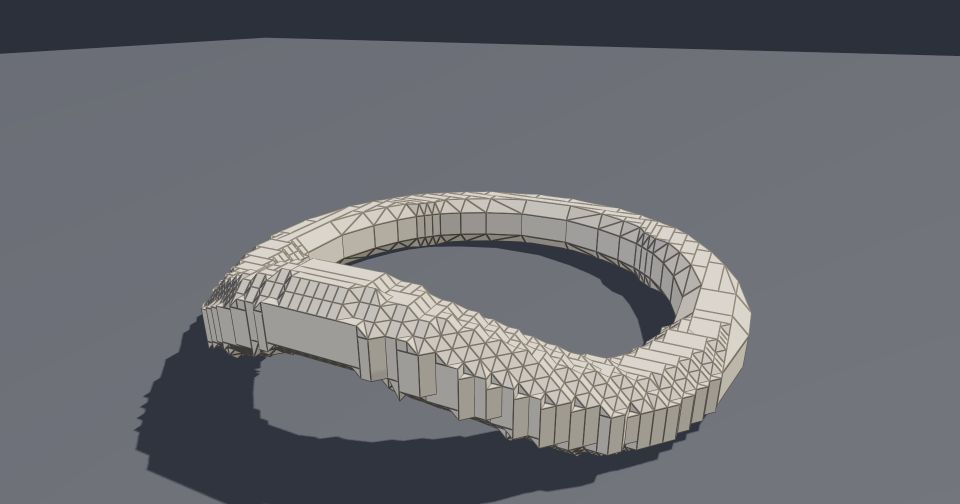
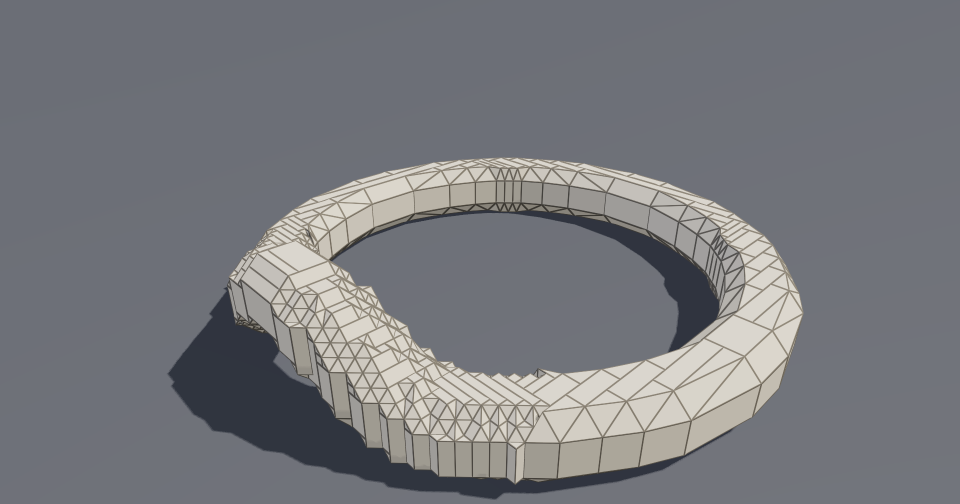
Claude moves one dot at a time; a Go to folder button; pictures retaken
Four more MCP tools: move_point, add_pull_point, move_pull_point and
remove_pull_point. Go to folder shows the saved forms in the system's file
manager. The pictures that showed the size slider and the old lifted tube
are retaken.

diff --git a/editor/src/mcp.rs b/editor/src/mcp.rs
@@ -660,6 +660,8 @@ fn workspace(state: &State) -> Value {
                     "stripe_width": paint.width,
                 },
                 "place": place.map(|u| u as f64 / 2.0),
+                "points": spec.points.iter().map(|p| rounded(*p)).collect::<Vec<_>>(),
+                "added_points": spec.pulls.iter().map(|(at, by)| json!({ "at": rounded(*at), "pulled_by": rounded(*by) })).collect::<Vec<_>>(),
                 "box_in_grid": extents[index].as_ref().map(|e| json!({ "low": rounded(e.low), "high": rounded(e.high), "size": rounded(e.high - e.low) })),
                 "box_in_world": extents[index].as_ref().map(|e| json!({ "low": rounded(e.world_low), "high": rounded(e.world_high), "centre": rounded(e.centre_in_world(spec)) })),
                 "bricks": built.bricks.len(),
@@ -806,6 +808,53 @@ pub fn apply(state: &mut State, name: &str, arguments: &Value, now_ms: impl Fn()
             }
             state.open(forms);
         }
+        // One dot of a form, as the mouse moves one: a point the form is
+        // drawn through, or a point added to pull it out of shape. The
+        // whole list could be sent through `update_form` instead, which
+        // means reading it, changing one entry and writing every entry
+        // back in the text a save keeps them in: arithmetic and copying
+        // that a caller gets wrong, for what is one drag in the editor.
+        "move_point" => {
+            let at = index(&forms)?;
+            let which = arguments.get("point").and_then(Value::as_u64).ok_or("point is the number of one of the form's points, counted from 0")? as usize;
+            let to = three(arguments.get("to"), "to", brickloft_core::spec::MAX_SPAN)?;
+            let spec = &mut forms[at].0;
+            let count = spec.points.len();
+            *spec.points.get_mut(which).ok_or(format!("the form has {count} points, numbered from 0"))? = DVec3::from_array(to);
+            brickloft_core::spec::build(spec)?;
+            state.open(forms);
+        }
+        "add_pull_point" => {
+            let at = index(&forms)?;
+            let hold = three(arguments.get("at"), "at", brickloft_core::spec::MAX_SPAN)?;
+            let by = three(arguments.get("pulled_by"), "pulled_by", brickloft_core::spec::MAX_SPAN)?;
+            let spec = &mut forms[at].0;
+            if spec.pulls.len() >= crate::state::PULLS {
+                return Err(format!("a form takes at most {} added points", crate::state::PULLS));
+            }
+            spec.pulls.push((DVec3::from_array(hold), DVec3::from_array(by)));
+            if let Some(reach) = arguments.get("reach").filter(|r| !r.is_null()) {
+                spec.pull_reach = reach.as_f64().filter(|r| (1.0..=brickloft_core::spec::MAX_SPAN).contains(r)).ok_or("reach is a number of microbricks, 1 or more")?;
+            }
+            brickloft_core::spec::build(spec)?;
+            state.open(forms);
+        }
+        "move_pull_point" | "remove_pull_point" => {
+            let at = index(&forms)?;
+            let which = arguments.get("added_point").and_then(Value::as_u64).ok_or("added_point is the number of one of the form's added points, counted from 0")? as usize;
+            let spec = &mut forms[at].0;
+            let count = spec.pulls.len();
+            if which >= count {
+                return Err(format!("the form has {count} added points, numbered from 0"));
+            }
+            if name == "remove_pull_point" {
+                spec.pulls.remove(which);
+            } else {
+                spec.pulls[which].1 = DVec3::from_array(three(arguments.get("pulled_by"), "pulled_by", brickloft_core::spec::MAX_SPAN)?);
+            }
+            brickloft_core::spec::build(spec)?;
+            state.open(forms);
+        }
         "remove_form" => {
             let at = index(&forms)?;
             if forms.len() == 1 {
@@ -871,7 +920,7 @@ mod tests {
             let said = apply(&mut state, &name, &json!({}), || 0.0);
             assert!(!said.is_err_and(|e| e.starts_with("Unknown tool")), "{name} is listed and not carried out");
         }
-        assert_eq!(tool_names().len(), 10);
+        assert_eq!(tool_names().len(), 14);
     }
 
     #[test]
@@ -1103,6 +1152,39 @@ mod tests {
         assert!(apply(&mut state, "set_view", &json!({ "rulers": true, "floor_below": 900 }), || 0.0).is_err());
         assert!(apply(&mut state, "set_view", &json!({ "rings": "no" }), || 0.0).is_err());
         assert_eq!((state.show_ruler, state.show_rings), (false, true));
+    }
+
+    #[test]
+    fn one_dot_of_a_form_is_moved_added_and_taken_off() {
+        let mut state = State::new(); // an arch: two feet
+        let said = |text: String| serde_json::from_str::<Value>(&text).unwrap();
+        let before = state.spec.points.clone();
+        let moved = said(apply(&mut state, "move_point", &json!({ "index": 0, "point": 1, "to": [12.5, 0.5, 0.5] }), || 0.0).unwrap());
+        assert_eq!(moved["forms"][0]["points"][1], json!([12.5, 0.5, 0.5]));
+        assert_eq!((state.spec.points[0], state.spec.points[1]), (before[0], DVec3::new(12.5, 0.5, 0.5)), "the other foot moved too");
+        // a point added to pull the arch's crown up, moved further, and taken off
+        let pulled = said(apply(&mut state, "add_pull_point", &json!({ "index": 0, "at": [2.5, 0.5, 8.5], "pulled_by": [0, 0, 3], "reach": 6 }), || 0.0).unwrap());
+        assert_eq!(pulled["forms"][0]["added_points"], json!([{ "at": [2.5, 0.5, 8.5], "pulled_by": [0.0, 0.0, 3.0] }]));
+        assert_eq!(state.spec.pull_reach, 6.0);
+        let high = state.built.bricks.iter().map(|b| b.min[2] + b.ext[2]).max().unwrap();
+        apply(&mut state, "move_pull_point", &json!({ "index": 0, "added_point": 0, "pulled_by": [0, 0, 6] }), || 0.0).unwrap();
+        assert!(state.built.bricks.iter().map(|b| b.min[2] + b.ext[2]).max().unwrap() > high, "pulling the point further did not raise the arch");
+        apply(&mut state, "remove_pull_point", &json!({ "index": 0, "added_point": 0 }), || 0.0).unwrap();
+        assert!(state.spec.pulls.is_empty());
+        // each is one step to undo
+        assert!(state.undo() && state.spec.pulls.len() == 1);
+        let now = state.forms();
+        for (tool, bad) in [
+            ("move_point", json!({ "index": 0, "point": 9, "to": [0, 0, 0] })),
+            ("move_point", json!({ "index": 0, "point": 0, "to": [0, 0] })),
+            ("move_point", json!({ "index": 0, "point": 0, "to": [1e9, 0, 0] })),
+            ("move_pull_point", json!({ "index": 0, "added_point": 4, "pulled_by": [0, 0, 1] })),
+            ("remove_pull_point", json!({ "index": 0 })),
+            ("add_pull_point", json!({ "index": 0, "at": [0, 0, 0], "pulled_by": [0, 0, 1], "reach": 0 })),
+        ] {
+            assert!(apply(&mut state, tool, &bad, || 0.0).is_err(), "{tool} took {bad}");
+            assert_eq!(state.forms(), now, "{tool} with {bad} changed the workspace");
+        }
     }
 
     #[test]

diff --git a/editor/src/store.rs b/editor/src/store.rs
@@ -201,6 +201,11 @@ mod files {
             .collect()
     }
 
+    /// Where a folder of saves is on disk.
+    pub fn folder_path(folder: &str) -> Result<PathBuf, String> {
+        Ok(root().join(clean(folder)?))
+    }
+
     pub fn folders() -> Vec<String> {
         sorted_with_starters(names(root(), true))
     }
@@ -317,6 +322,18 @@ mod files {
 }
 
 pub use files::{add_folder, folders, forms};
+
+/// Show `folder` of the saved forms in the system's file manager, making it
+/// first if nothing has been saved there yet. Returns what to tell the player.
+#[cfg(not(target_arch = "wasm32"))]
+pub fn show_folder(folder: &str) -> Result<String, String> {
+    let path = files::folder_path(folder)?;
+    std::fs::create_dir_all(&path).map_err(|e| format!("could not make {}: {e}", path.display()))?;
+    // (the path is handed over as one argument to the system's own opener,
+    // never as text for a shell to read: see the `open` crate)
+    open::that_detached(&path).map_err(|e| format!("could not open {}: {e}", path.display()))?;
+    Ok(format!("Opened {}", path.display()))
+}
 
 /// Delete the save under `name` in `folder`. It cannot be brought back, so
 /// the panel asks first.

diff --git a/editor/src/panel.rs b/editor/src/panel.rs
@@ -60,6 +60,11 @@ fn saved_forms(ui: &mut Ui, state: &mut State) {
         })
             .response
     });
+    // a page keeps its saves in the browser, where there is no folder to show
+    #[cfg(not(target_arch = "wasm32"))]
+    if helped(ui, help("go_to_folder"), |ui| ui.button("Go to folder")).clicked() {
+        state.store_note = crate::store::show_folder(&state.folder).unwrap_or_else(|e| format!("Not opened: {e}"));
+    }
     if state.folder != before {
         state.list_saved();
     }

diff --git a/docs/mcp.md b/docs/mcp.md
@@ -9,7 +9,7 @@ change happen in the editor's window.
 
 The connection uses the [Model Context Protocol](https://modelcontextprotocol.io)
 (MCP), the standard way for an AI assistant to call tools that a program
-offers. The editor is the MCP server and offers ten tools. Claude Code, or
+offers. The editor is the MCP server and offers fourteen tools. Claude Code, or
 any other MCP client, is the client that calls them.
 
 - [What Claude can do](#what-claude-can-do)
@@ -89,6 +89,10 @@ file, the entry is a server of type `http` with the URL above.
 | `move_camera` | Sends the camera to a place, or along a path of places, looking at a chosen point at each. |
 | `take_screenshot` | Returns a picture of the editor's window as a PNG image, with the panel or without it. |
 | `set_view` | Switches the rulers, rings, arrows and dots on and off, lowers the floor, and sizes the rings and arrows. |
+| `move_point` | Moves one of the points a form is drawn through (a yellow dot), leaving the others where they are. |
+| `add_pull_point` | Adds a point that pulls the form out of shape at one place (an orange dot), as Shift + click and a drag do. |
+| `move_pull_point` | Changes how far an added point pulls the form. |
+| `remove_pull_point` | Takes an added point off, so the form goes back to its own shape there. |
 
 ### Forms and their settings
 
@@ -236,10 +240,8 @@ macOS and Linux and holds no file paths.
   box.
 - One port, 7878, is used. If another program has it, the box unticks
   itself and the panel says why.
-- Claude cannot yet drag a single dot, add a pull point by clicking, or
-  read a point cloud. Points and pulls are set through the `points` and
-  `pulls` settings instead. Rebuilding an object from a point cloud is
-  planned (see [future-work.md](future-work.md)).
+- Claude cannot yet read a point cloud or copy the workspace to the
+  clipboard. Both are planned (see [future-work.md](future-work.md)).
 - The live tests so far were made with a script acting as the client. The
-  ten tools were each called against a running editor on Windows; macOS
+  tools were called against a running editor on Windows; macOS
   and Linux run the same code and have not been tried.

diff --git a/docs/future-work.md b/docs/future-work.md
@@ -7,7 +7,7 @@ Two additions are planned. Neither changes how forms are fitted today (see
 
 Claude can already drive the editor: add, change, colour, turn, measure and
 remove forms, move the camera and take screenshots, through the Model
-Context Protocol ([mcp.md](mcp.md)). Three things are still to come.
+Context Protocol ([mcp.md](mcp.md)). Two things are still to come.
 
 **Rebuilding an object from a point cloud.** Given a point cloud of a solid
 3D object, which is a list of points sampled from its surface, Claude would
@@ -20,11 +20,6 @@ Claude in a form it can reason about, and a large one will need thinning
 first. Judging how well the forms match the cloud needs a measure the
 editor can report, such as the share of the cloud's points lying on or near
 the bricks.
-
-**Finer control of shape.** Claude sets a form's points and added points
-through its settings today. Tools that move one dot, or add a pull point at
-a place on the form's surface, would match what the mouse does and need
-less arithmetic from Claude.
 
 **Copying to the game.** Claude cannot put the workspace on the clipboard,
 so the player still presses Ctrl+C. A tool for it would let Claude finish a

diff --git a/docs/features.md b/docs/features.md
@@ -173,7 +173,8 @@ forms that can still be reshaped.
 **Open** puts a save in place of the whole workspace, and Ctrl+Z brings the
 workspace back. **Add** adds the save's forms beside the form being edited
 and on its grid, as a paste does. Dragging a save from the list onto the
-view adds it too. **Delete** removes a save from disk after asking you to
+view adds it too. **Go to folder** opens the chosen folder in your file
+manager, where each save is a `.brz` file. **Delete** removes a save from disk after asking you to
 confirm (Enter deletes, Escape cancels), since Ctrl+Z cannot bring a deleted file back. Saves made by earlier versions, which were text files of
 one form's settings, are still listed and opened.
 
